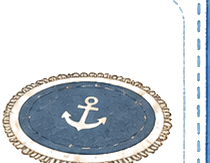
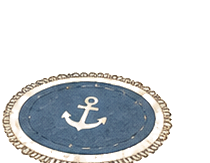
fix: furniture_rug.png 오른쪽 가장자리 점선 조각 아티팩트 제거
원본 시트를 찾지 못해(초기 Sprint 5 커밋에서 바이너리만 추가된 파일) 알파
채널 연결요소 분석으로 러그 본체가 아닌 픽셀만 투명 처리. 캔버스 크기는
그대로 유지해 CabinEditor의 object-fit:contain 배치 스케일에 영향 없게 함.

Claude-Session: https://claude.ai/code/session_01XZf4WvQ5AwVrtd1cUDQi66

Changed region(s): [[0.9143, 0.0, 1.0, 1.0], [0.8571, 0.0307, 0.8857, 1.0], [0.8286, 0.0, 0.8571, 0.0307]]

diff --git a/docs/PROGRESS.md b/docs/PROGRESS.md
@@ -2037,3 +2037,28 @@ issue) 얘기인 줄 알고 되물으려다, 랜딩 페이지(`app/page.tsx`)를
   실제로 눈에 걸쳐 쓴 것처럼 보이는 것 확인. `pageerror` 0건.
   `tsc`/`eslint`/`vitest run`(247개)/`next build` 전부 통과. 마이그레이션(`0020`)은 사용자가
   직접 적용하기로 함(이 세션은 라이브 Supabase 접근 불가, 0007~0019와 동일).
+
+### `furniture_rug.png` 재크롭 (바닥 가구 각도 조사 때 발견해둔 잔여 이슈)
+
+- **문제**: 바닥 가구 각도 실험(위 항목) 검증 스크린샷에서 발견하고 그때는 고치지 않고
+  넘어갔던 이슈 — `public/images/items/furniture_rug.png` 오른쪽 가장자리에 원본 시트
+  크롭 때 같이 딸려온 파란 점선 조각이 남아있었다.
+- **원본 시트 특정 불가**: `git log --all -- public/images/items/furniture_rug.png`로 확인한
+  결과 이 파일은 이번 세션에서 처리한 시트(해적/요정/마린/코티지/빈티지 등) 어디에도 속하지
+  않고, 아주 초기 "Sprint 5" 커밋에서 바이너리만 통째로 추가된 상태 — 대응하는
+  `design-assets/*` 원본 시트를 찾지 못했다(당시 파이프라인 이전에 만들어진 파일로 보임).
+  원본 재크롭이 불가능해 기존 파일을 직접 정리하는 방식으로 처리.
+- **수정**: `scipy.ndimage.label`로 알파 채널 연결요소를 분석해보니 러그 본체(연결요소 1개,
+  x 2~172)와 점선 조각들(여러 개의 작은 연결요소, x 172~209)이 서로 완전히 분리돼 있는
+  것을 확인 — 러그 본체가 아닌 모든 연결요소를 투명(`RGBA(0,0,0,0)`)으로 지웠다.
+  **처음엔 캔버스 자체를 폭 210→175로 잘라내려 했으나, `CabinEditor.tsx`의 선실 배치
+  렌더링이 `height:100%; width:auto; object-fit:contain`이라 캔버스 가로세로 비율이 바뀌면
+  선실에 놓였을 때 러그가 실제로 17% 정도 작게 렌더링되는 것을 뒤늦게 확인하고 방향을
+  바꿨다** — 캔버스 크기(210×163)는 그대로 두고 점선 조각 픽셀만 투명 처리해 배치
+  스케일에 영향이 없게 했다. 동일 바이트의 중복 파일(`haenam_engine_acc_wrench.png`/
+  `hand_tool_pouch.png` 사례처럼)이 다른 경로에 있는지도 해시로 확인했으나 없었다.
+- **범위상 하지 않은 것**: 원본 시트를 못 찾아 고해상도 재크롭은 못 했다 — 기존 저해상도
+  파일에서 결함 영역만 지운 것이라 화질 자체는 개선되지 않았다.
+- **검증**: 수정 전/후 이미지를 직접 눈으로 비교해 점선 조각이 사라지고 러그 본체(닻
+  문양 원형 러그)는 그대로인 것을 확인. `tsc`/`eslint`/`vitest run`(247개)/`next build`
+  전부 통과.
